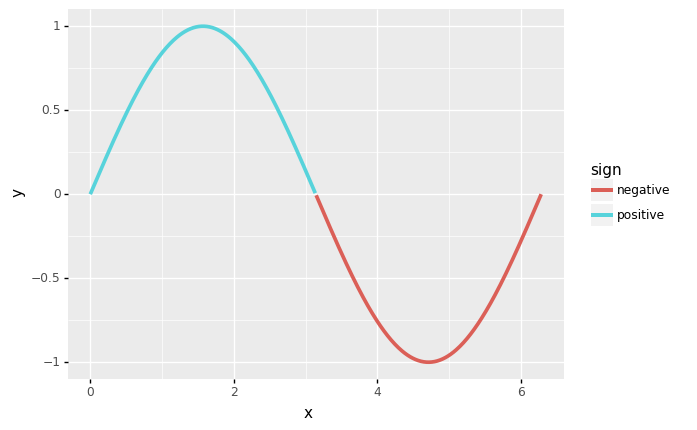
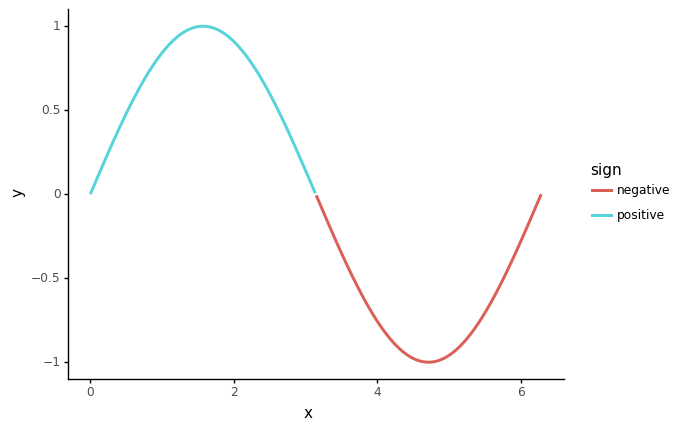
Update README

diff --git a/README.md b/README.md
@@ -61,16 +61,16 @@ df >> mutate(z=if_else(f.x>1, 1, 0)) >> filter(f.z==1)
 # works with plotnine
 import numpy
 from pipda import register_verb, register_func
-from plotnine import ggplot, aes, geom_line
+from plotnine import ggplot, aes, geom_line, theme_classic
 
-sin = register_func(None, func=numpy.sin)
+sin = register_func(func=numpy.sin)
 
 df = tibble(x=numpy.linspace(0, 2*numpy.pi, 500))
 (
     df >>
         mutate(y=sin(f.x), sign=if_else(f.y>=0, "positive", "negative")) >>
-        ggplot(aes(x='x', y='y'))
-) + geom_line(aes(color='sign'), size=1.5)
+        ggplot(aes(x='x', y='y')) + theme_classic()
+) + geom_line(aes(color='sign'), size=1.2)
 ```
 
 ![example](./example.png)
